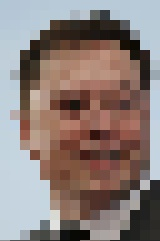
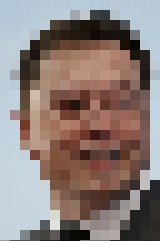
Do not save old image in demo, bilerp correction, update catalogue images

diff --git a/dd-demo.py b/dd-demo.py
@@ -55,5 +55,4 @@ if __name__ == '__main__':
 
         ddi.load('docs/images/catalogue/' + oldfilename, sampling='bilinear')
         ddi.eval(transf_src[pair[0]])
-        ddi.save('docs/images/catalogue/' + oldfilename, 'old')
         ddi.save('docs/images/catalogue/' + newfilename, 'new')

diff --git a/digidark/mathf.py b/digidark/mathf.py
@@ -52,7 +52,7 @@ Bilinear interpolation
 """
 def bilerp(v0, v1, v2, v3, s, t):
     a = v0 + (v1 - v0) * s
-    b = v2 + (v3 - v0) * s
+    b = v2 + (v3 - v2) * s
     return a + (b - a) * t
 
 """
